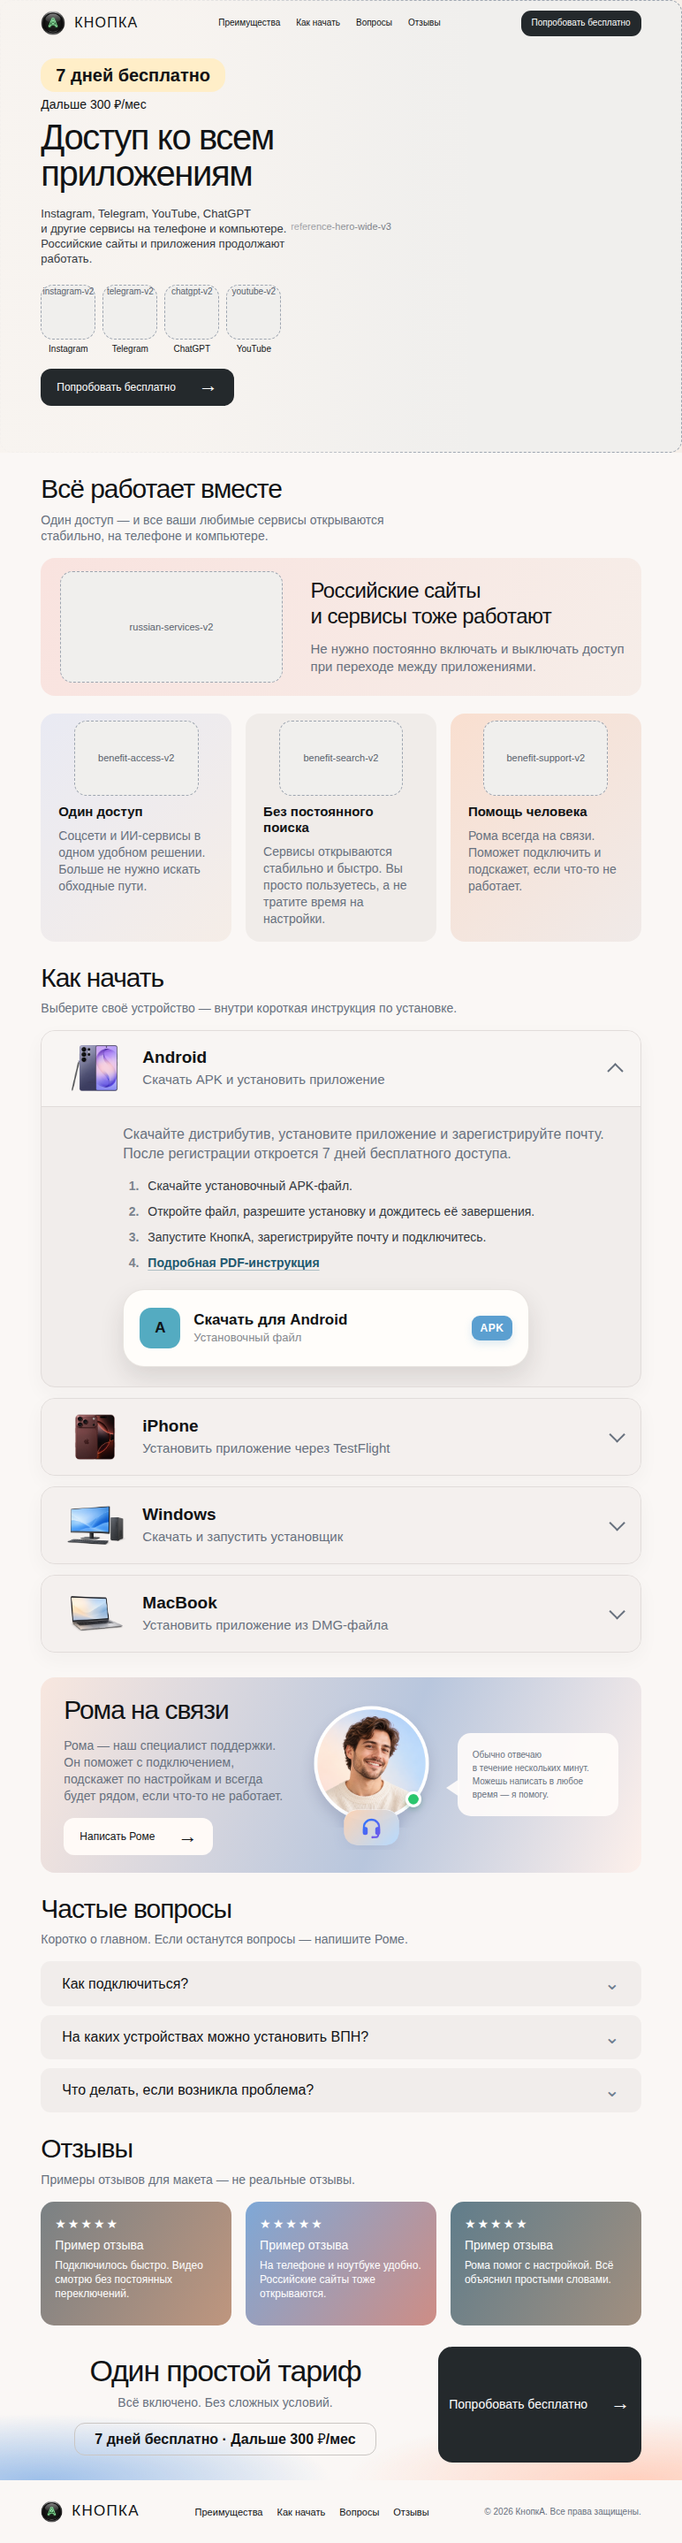
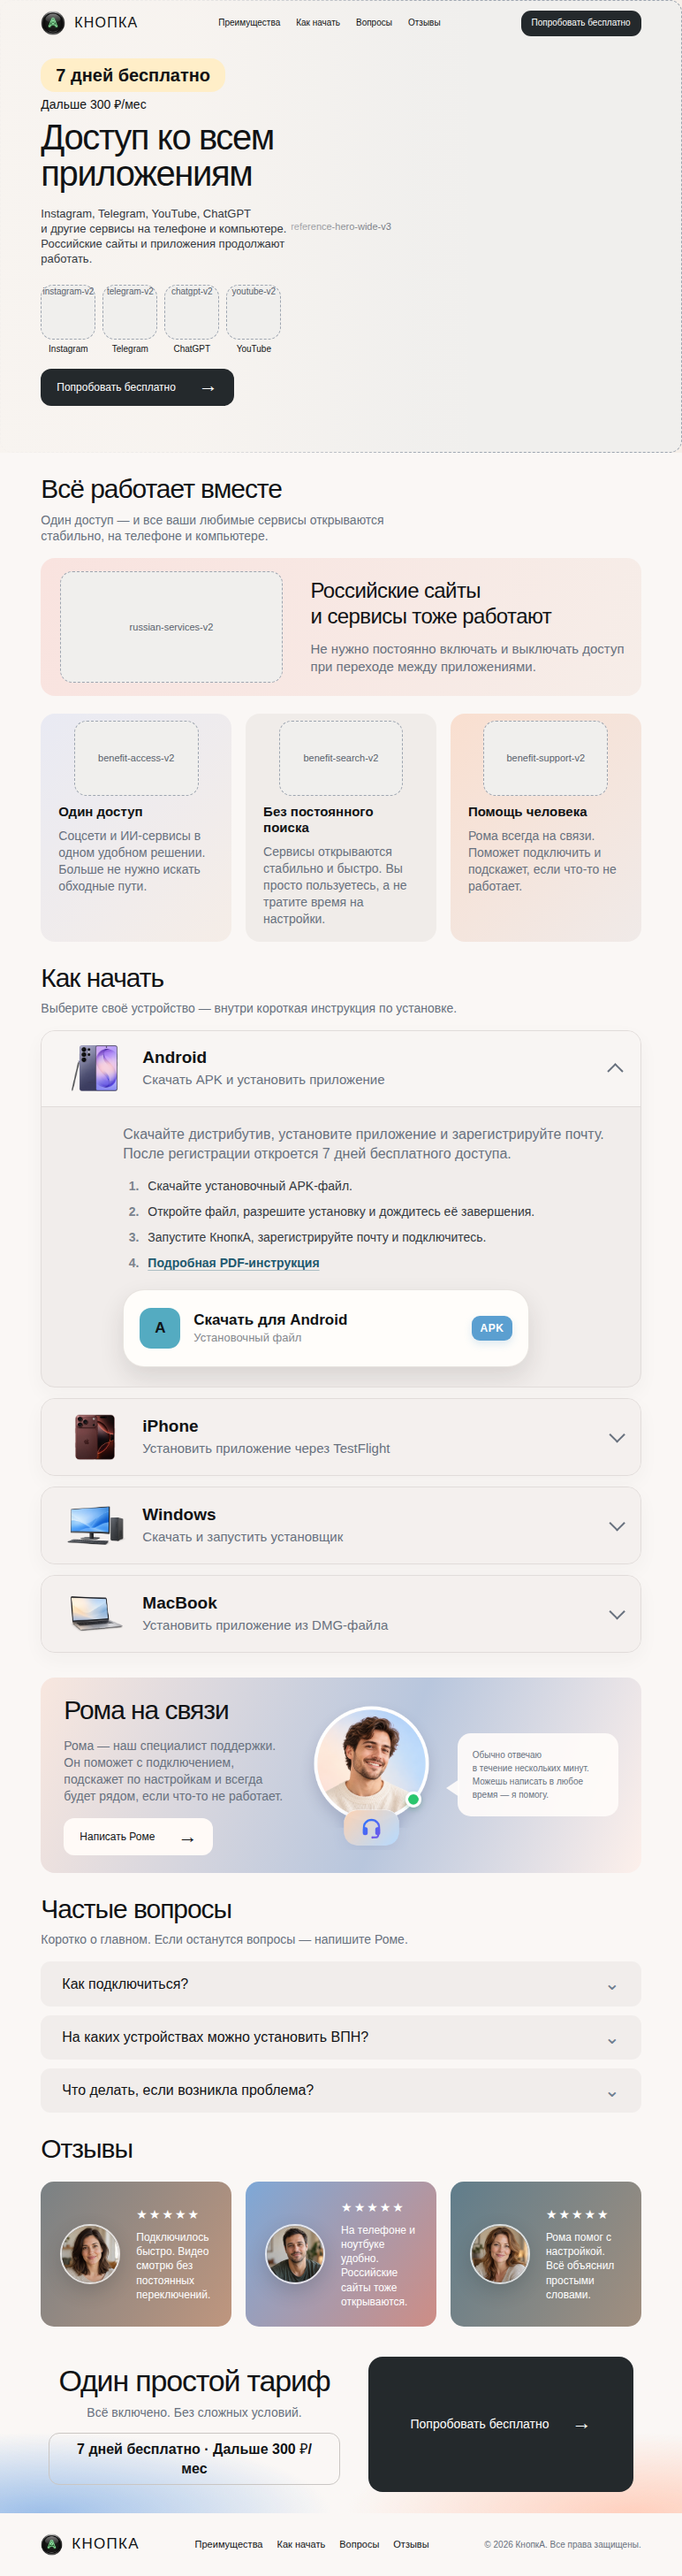
design: add review portraits and refine tariff layout

Changed region(s): [[0.0622, 0.1857, 0.9637, 0.9903], [0.0622, 0.0, 0.4041, 0.1547], [0.9948, 0.0309, 1.0, 0.1238]]

diff --git a/Design2.0/version-001-mvp/site/source/index.html b/Design2.0/version-001-mvp/site/source/index.html
@@ -149,11 +149,11 @@
       <details><summary>Что делать, если возникла проблема?</summary><p>Можно скачать инструкцию или написать Роме — он поможет с подключением и настройками.</p></details>
     </section>
     <section class="section shell reviews" id="reviews" aria-labelledby="reviews-title">
-      <h2 id="reviews-title">Отзывы</h2><p class="section-intro">Примеры отзывов для макета — не реальные отзывы.</p>
+      <h2 id="reviews-title">Отзывы</h2>
       <div class="review-grid grid-three">
-        <article><span class="stars" aria-label="Демонстрационная оценка: пять звёзд">★★★★★</span><strong>Пример отзыва</strong><p>Подключилось быстро. Видео смотрю без постоянных переключений.</p></article>
-        <article><span class="stars" aria-label="Демонстрационная оценка: пять звёзд">★★★★★</span><strong>Пример отзыва</strong><p>На телефоне и ноутбуке удобно. Российские сайты тоже открываются.</p></article>
-        <article><span class="stars" aria-label="Демонстрационная оценка: пять звёзд">★★★★★</span><strong>Пример отзыва</strong><p>Рома помог с настройкой. Всё объяснил простыми словами.</p></article>
+        <article><img class="review-avatar" src="../assets/review-woman-1-v1.png" alt="" width="512" height="512" data-template-keep><div class="review-copy"><span class="stars" aria-label="Пять звёзд">★★★★★</span><p>Подключилось быстро. Видео смотрю без постоянных переключений.</p></div></article>
+        <article><img class="review-avatar" src="../assets/review-man-v1.png" alt="" width="512" height="512" data-template-keep><div class="review-copy"><span class="stars" aria-label="Пять звёзд">★★★★★</span><p>На телефоне и ноутбуке удобно. Российские сайты тоже открываются.</p></div></article>
+        <article><img class="review-avatar" src="../assets/review-woman-2-v1.png" alt="" width="512" height="512" data-template-keep><div class="review-copy"><span class="stars" aria-label="Пять звёзд">★★★★★</span><p>Рома помог с настройкой. Всё объяснил простыми словами.</p></div></article>
       </div>
     </section>
     <section class="tariff" id="tariff" aria-labelledby="tariff-title">

diff --git a/Design2.0/version-001-mvp/site/template/index.html b/Design2.0/version-001-mvp/site/template/index.html
@@ -149,11 +149,11 @@
       <details><summary>Что делать, если возникла проблема?</summary><p>Можно скачать инструкцию или написать Роме — он поможет с подключением и настройками.</p></details>
     </section>
     <section class="section shell reviews" id="reviews" aria-labelledby="reviews-title">
-      <h2 id="reviews-title">Отзывы</h2><p class="section-intro">Примеры отзывов для макета — не реальные отзывы.</p>
+      <h2 id="reviews-title">Отзывы</h2>
       <div class="review-grid grid-three">
-        <article><span class="stars" aria-label="Демонстрационная оценка: пять звёзд">★★★★★</span><strong>Пример отзыва</strong><p>Подключилось быстро. Видео смотрю без постоянных переключений.</p></article>
-        <article><span class="stars" aria-label="Демонстрационная оценка: пять звёзд">★★★★★</span><strong>Пример отзыва</strong><p>На телефоне и ноутбуке удобно. Российские сайты тоже открываются.</p></article>
-        <article><span class="stars" aria-label="Демонстрационная оценка: пять звёзд">★★★★★</span><strong>Пример отзыва</strong><p>Рома помог с настройкой. Всё объяснил простыми словами.</p></article>
+        <article><img class="review-avatar" src="../assets/review-woman-1-v1.png" alt="" width="512" height="512" data-template-keep><div class="review-copy"><span class="stars" aria-label="Пять звёзд">★★★★★</span><p>Подключилось быстро. Видео смотрю без постоянных переключений.</p></div></article>
+        <article><img class="review-avatar" src="../assets/review-man-v1.png" alt="" width="512" height="512" data-template-keep><div class="review-copy"><span class="stars" aria-label="Пять звёзд">★★★★★</span><p>На телефоне и ноутбуке удобно. Российские сайты тоже открываются.</p></div></article>
+        <article><img class="review-avatar" src="../assets/review-woman-2-v1.png" alt="" width="512" height="512" data-template-keep><div class="review-copy"><span class="stars" aria-label="Пять звёзд">★★★★★</span><p>Рома помог с настройкой. Всё объяснил простыми словами.</p></div></article>
       </div>
     </section>
     <section class="tariff" id="tariff" aria-labelledby="tariff-title">

diff --git a/Design2.0/version-001-mvp/site/source/styles.css b/Design2.0/version-001-mvp/site/source/styles.css
@@ -42,6 +42,15 @@
 .tariff .tariff-cta{align-self:stretch;min-height:100%;margin-top:0;border-radius:16px;font-size:17px}
 @media(min-width:701px) and (max-width:1000px){.tariff-layout{grid-template-columns:minmax(0,1fr) 230px;gap:32px}.tariff .tariff-cta{font-size:14px}}
 @media(max-width:700px){.platform-accordions{gap:10px}.platform-accordion summary{min-height:76px;padding:11px 14px;gap:12px}.platform-mark{flex-basis:64px;width:64px;height:48px}.platform-mark svg{width:28px;height:28px}.platform-mark img{width:64px;height:46px}.platform-heading strong{font-size:17px}.platform-heading span{font-size:13px;line-height:1.3}.platform-content{padding:17px 16px 19px}.platform-content>p{padding:0;font-size:15px}.platform-content ol{gap:9px;margin:15px 0 18px;padding-left:21px;font-size:15px}.platform-download{grid-template-columns:42px minmax(0,1fr) auto;width:100%;min-width:0;min-height:78px;padding:11px 12px;gap:11px;border-radius:20px}.platform-download .download-mark{width:42px;height:42px}.platform-download .download-copy strong{font-size:14px}.platform-download .download-copy small{font-size:11px}.platform-download .download-file{padding:7px 8px;font-size:10px}.tariff-layout{grid-template-columns:1fr;gap:28px}.tariff-copy{align-items:center;padding:0;text-align:center}.tariff .tariff-cta{width:100%;min-height:62px;font-size:16px}}
+
+/* Review portraits and compact tariff layout for the current visual prototype. */
+.review-grid{margin-top:20px}
+.review-grid article{display:grid;grid-template-columns:68px minmax(0,1fr);align-items:center;gap:18px;padding:20px 22px}
+.review-avatar{width:68px;height:68px;object-fit:cover;border-radius:50%;border:2px solid rgba(255,255,255,.75);box-shadow:0 8px 22px rgba(31,38,43,.2)}
+.review-grid p{margin-top:8px}
+.stars{display:block}
+.tariff{padding:24px 0}
+@media(min-width:701px) and (max-width:1000px){.tariff-layout{grid-template-columns:minmax(0,330px) minmax(220px,300px);justify-content:center;gap:32px}}
 @media(prefers-reduced-motion:reduce){.platform-accordion summary::after,.platform-download{transition:none}.platform-download:hover{transform:none}}
 
 /* Hero v3: one full-width photographic surface beneath header and copy. */

diff --git a/Design2.0/version-001-mvp/site/assets/README.md b/Design2.0/version-001-mvp/site/assets/README.md
@@ -115,3 +115,14 @@ operator cutout (`260×260`, SHA-256 `8829b1359b0b94f9d22d149a4fcfb7db9ffe344a49
 детерминированно ослаблен только alpha полупрозрачной тени ниже badge (`y>220`,
 alpha `<0.65`, множитель `0.35`); RGB-каналы и непрозрачные пиксели исходного
 портрета и badge не изменены. V1 оставлен рядом для отката.
+
+## Review portraits
+
+Для визуального прототипа карточек отзывов встроенным imagegen созданы три
+портрета вымышленных людей: `review-woman-1-v1.png`, `review-man-v1.png` и
+`review-woman-2-v1.png`. Это синтетические персонажи, а не реальные клиенты
+или авторы отзывов. Файлы нормализованы до `512×512` для круглой CSS-обрезки.
+
+Общий prompt: natural editorial head-and-shoulders portrait of one fictional
+adult, soft window daylight, warm neutral blurred interior, realistic skin,
+centered square framing; no text, logos, watermark or celebrity likeness.
